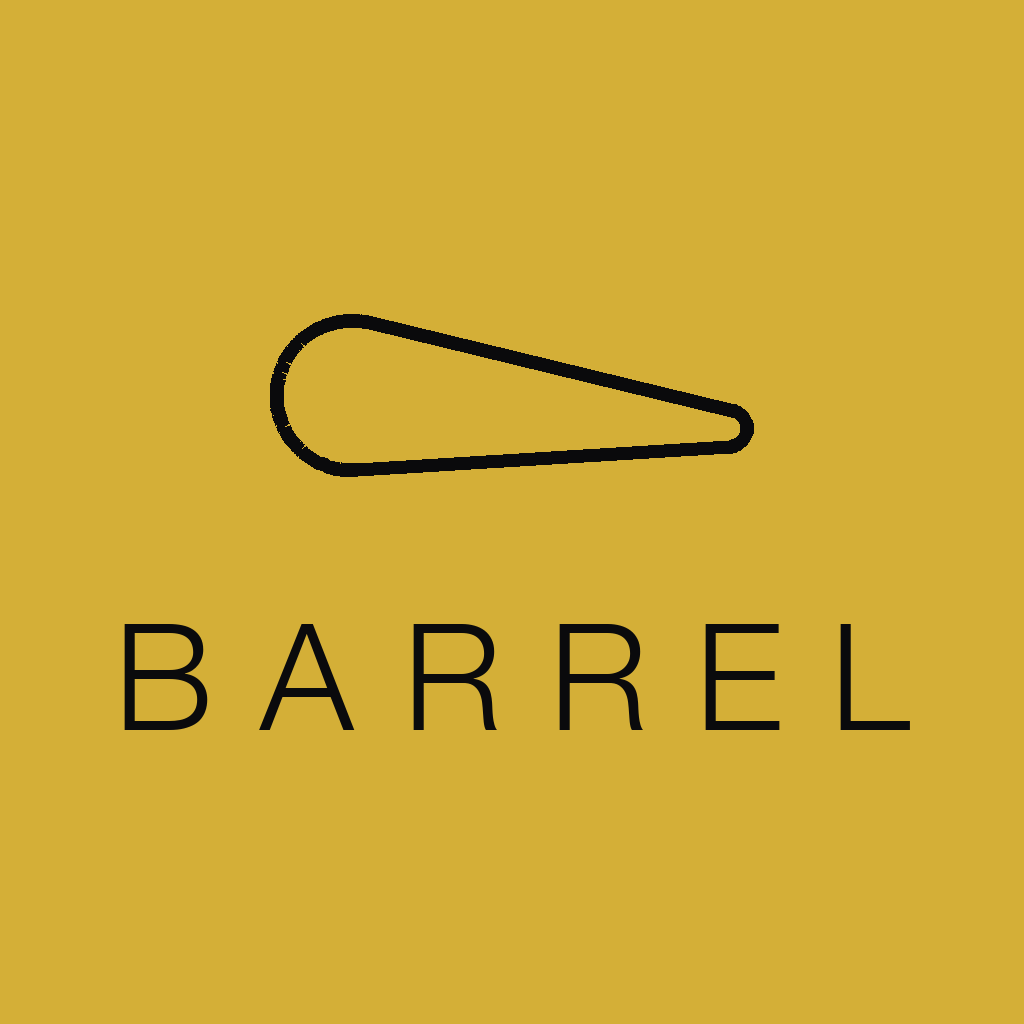
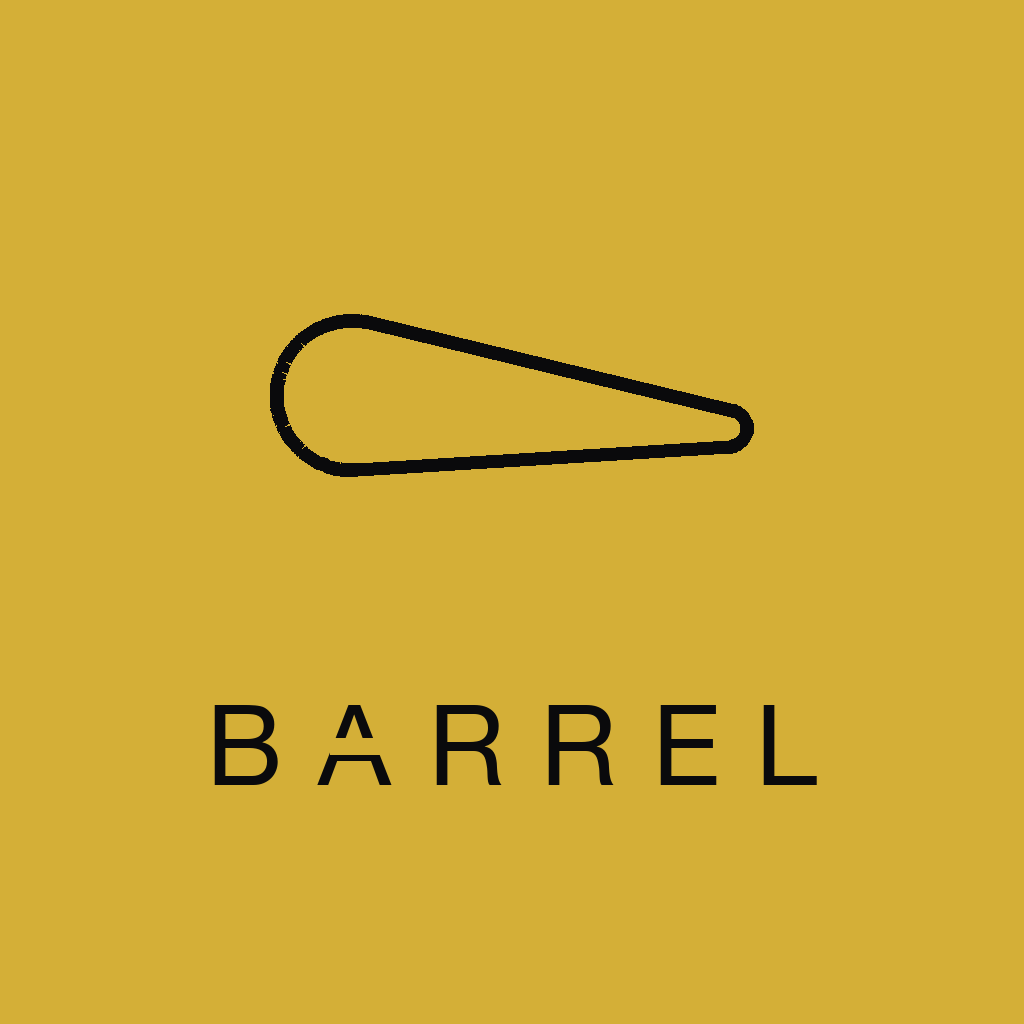
BARREL wordmark: Helvetica Neue Regular, no crossbar on A
- Wordmark weight Light → Regular (~30% thicker stem) to match the
  reference brand composition
- The 'A' in BARREL drops its horizontal crossbar — overlay a
  bg-colored rectangle over the 0.42 * cap_height band so the letter
  reads as two clean diagonals meeting at the apex
- Same treatment applied in the marketing-frame wordmark for consistency
- Knockout is wider (16-84% of letter width, 17% of cap-height thick)
  to fully cover the heavier Regular-weight stroke

diff --git a/scripts/generate_barrel_icon.py b/scripts/generate_barrel_icon.py
@@ -23,7 +23,7 @@ STROKE_FRAC = 1 / 72
 BARREL_CY_FRAC = 0.38        # vertical center of the barrel
 WORDMARK_CY_FRAC = 0.74      # vertical center of the BARREL wordmark
 WORDMARK_FONT = "/System/Library/Fonts/HelveticaNeue.ttc"
-WORDMARK_FONT_INDEX = 7      # Helvetica Neue Light — matches the thin reference stroke
+WORDMARK_FONT_INDEX = 0      # Helvetica Neue Regular — ~30% heavier stem than Light
 WORDMARK_PX = 112            # size at 1024 canvas (tuned to match reference width)
 WORDMARK_TRACKING_FRAC = 0.32  # wide letter spacing to match the reference spacing
 
@@ -43,7 +43,13 @@ def _load_font(size: int) -> ImageFont.FreeTypeFont:
 
 
 def draw_wordmark(draw: ImageDraw.ImageDraw, canvas_w: int, cy: int,
-                  size_px: int, fill=WHITE, tracking_frac: float = WORDMARK_TRACKING_FRAC):
+                  size_px: int, fill=WHITE, bg=None,
+                  tracking_frac: float = WORDMARK_TRACKING_FRAC):
+    """Draw the BARREL wordmark centered on (canvas_w/2, cy).
+
+    Passing `bg` (icon background color) knocks the horizontal crossbar out
+    of the 'A' with a bg-colored rectangle — brand spec: A has no crossbar.
+    """
     font = _load_font(size_px)
     letters = "BARREL"
     tracking = int(size_px * tracking_frac)
@@ -51,14 +57,22 @@ def draw_wordmark(draw: ImageDraw.ImageDraw, canvas_w: int, cy: int,
     widths = [b[2] - b[0] for b in bboxes]
     total = sum(widths) + tracking * (len(letters) - 1)
     x = (canvas_w - total) // 2
-    # Vertically center each letter around cy using the tallest glyph's bbox
-    ascent_descent = max(b[3] - b[1] for b in bboxes)
-    top_y = cy - ascent_descent // 2
+    ascent, descent = font.getmetrics()
+    cap_h = ascent - descent // 2   # rough cap height for a mostly-capital run
+    baseline_y = cy + (ascent - descent) // 2 - descent
     for i, (ch, w) in enumerate(zip(letters, widths)):
-        # textbbox y offset compensation so all letters sit on a common baseline
-        offset_y = -bboxes[i][1]
-        draw.text((x, top_y + offset_y - ascent_descent // 2 + ascent_descent),
-                  ch, font=font, fill=fill, anchor="ls")
+        draw.text((x, baseline_y), ch, font=font, fill=fill, anchor="ls")
+        if ch == "A" and bg is not None:
+            # Knock out the crossbar. The crossbar on Helvetica Neue's 'A'
+            # sits about 40% of the cap height above the baseline; widened
+            # knockout to cover the heavier Regular-weight stroke.
+            bar_y_center = baseline_y - int(cap_h * 0.42)
+            half_thick = max(3, int(cap_h * 0.085))
+            bar_y1 = bar_y_center - half_thick
+            bar_y2 = bar_y_center + half_thick
+            bar_x1 = x + int(w * 0.16)
+            bar_x2 = x + int(w * 0.84)
+            draw.rectangle((bar_x1, bar_y1, bar_x2, bar_y2), fill=bg)
         x += w + tracking
 
 
@@ -76,10 +90,10 @@ def main():
     stroke = max(3, int(ICON_SIZE * STROKE_FRAC))
     draw.line(pts + [pts[0]], fill=GOLD, width=stroke, joint="curve")
 
-    # BARREL wordmark
+    # BARREL wordmark (bg=BG erases the A's crossbar)
     draw_wordmark(draw, canvas_w=ICON_SIZE,
                   cy=int(ICON_SIZE * WORDMARK_CY_FRAC),
-                  size_px=WORDMARK_PX)
+                  size_px=WORDMARK_PX, bg=BG)
 
     ICON_PATH.parent.mkdir(parents=True, exist_ok=True)
     img.save(ICON_PATH, format="PNG")

diff --git a/scripts/compose_marketing.py b/scripts/compose_marketing.py
@@ -90,13 +90,26 @@ def draw_wordmark(draw: ImageDraw.ImageDraw, top: int):
     total_w = text_w + gap + mark_w
 
     x = (W - total_w) // 2
-    # Draw BARREL in white with wide letter spacing
+    # Draw BARREL in white with wide letter spacing. The 'A' gets its
+    # horizontal crossbar knocked out so the letter reads as an open peak.
     letter_spacing = 8
     cursor = x
+    ascent, descent = font.getmetrics()
+    cap_h = ascent - descent // 2
+    baseline_y = top + ascent
     for ch in text:
         draw.text((cursor, top), ch, font=font, fill=(255, 255, 255, 255))
         cb = draw.textbbox((0, 0), ch, font=font)
-        cursor += (cb[2] - cb[0]) + letter_spacing
+        ch_w = cb[2] - cb[0]
+        if ch == "A":
+            bar_y_center = baseline_y - int(cap_h * 0.42)
+            half_thick = max(2, int(cap_h * 0.085))
+            draw.rectangle(
+                (cursor + int(ch_w * 0.16), bar_y_center - half_thick,
+                 cursor + int(ch_w * 0.84), bar_y_center + half_thick),
+                fill=BG,
+            )
+        cursor += ch_w + letter_spacing
 
     mark_cx = cursor + gap + mark_w // 2 - letter_spacing
     mark_cy = top + text_h // 2 + 6

diff --git a/scripts/generate_alt_icon.py b/scripts/generate_alt_icon.py
@@ -35,10 +35,10 @@ def render(size: int) -> Image.Image:
     )
     stroke = max(3, size // 72)
     draw.line(pts + [pts[0]], fill=INK, width=stroke, joint="curve")
-    # Text size scales proportionally with the canvas (148 at 1024).
-    size_px = max(12, int(size * 148 / 1024))
+    # Text size scales proportionally with the canvas (112 at 1024).
+    size_px = max(12, int(size * 112 / 1024))
     draw_wordmark(draw, canvas_w=size, cy=int(size * WORDMARK_CY_FRAC),
-                  size_px=size_px, fill=INK)
+                  size_px=size_px, fill=INK, bg=GOLD)
     return img
 
 
